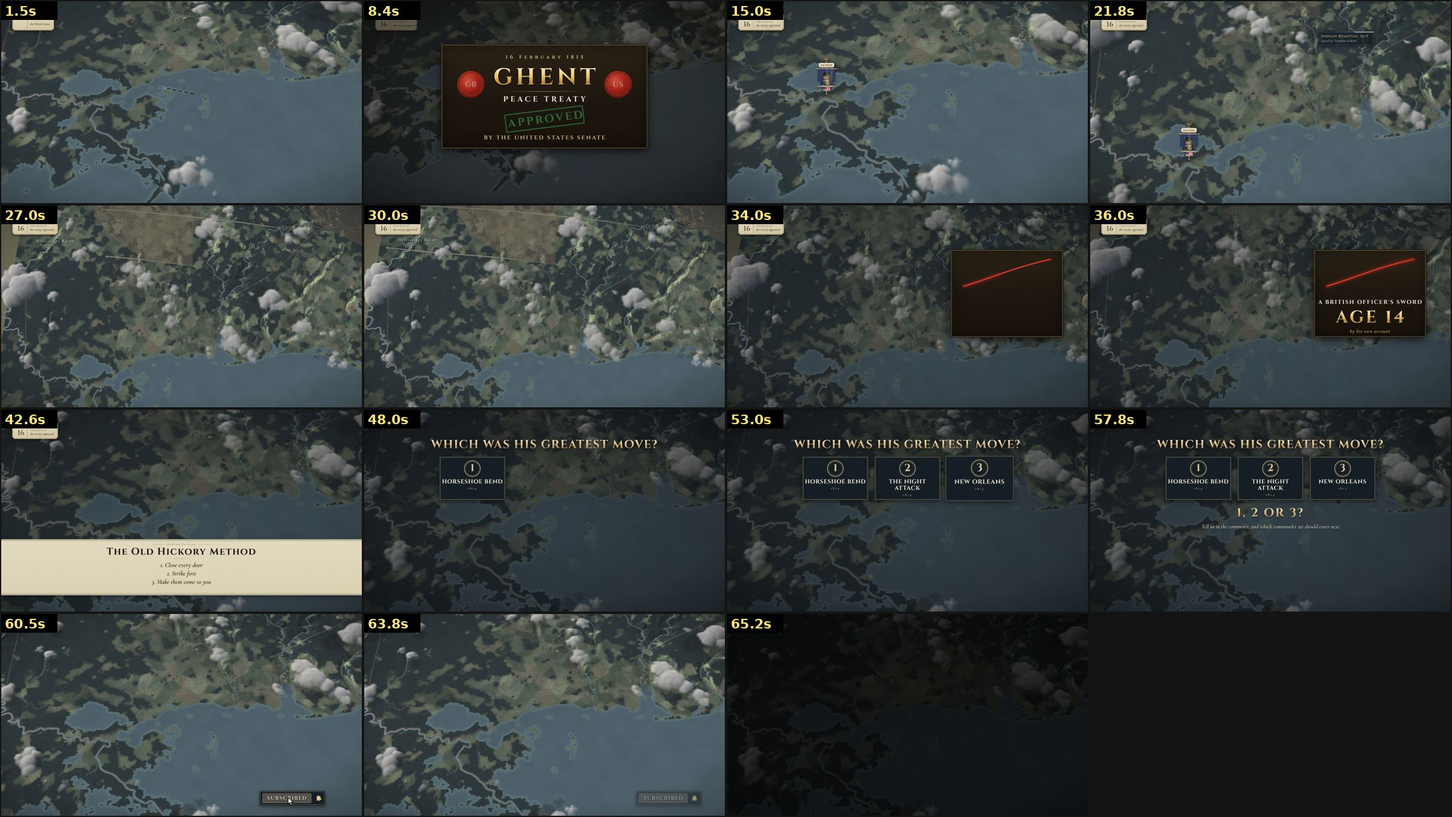
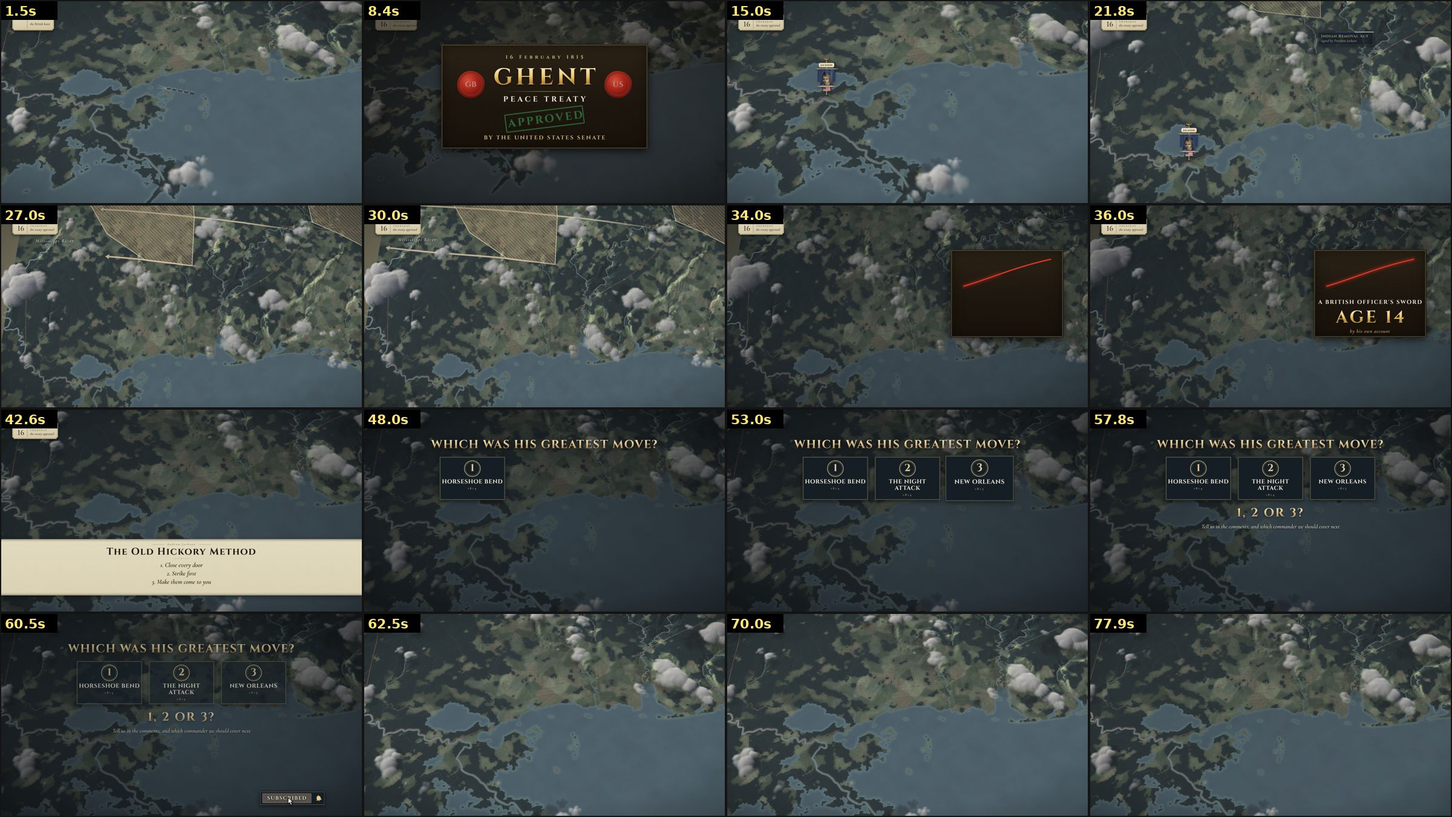
Jackson: S07 climax shots + fog, S08 end-screen tail
Claude-Session: https://claude.ai/code/session_011uJnjAkjbSabL4aypQkYaz

diff --git a/ajackson/sequences/S07/seq.js b/ajackson/sequences/S07/seq.js
@@ -4,7 +4,7 @@
 // the rocket, the British lines advancing in the fog, the fog lifts at ~500 yards -> the batteries, then rank fire along the parapet ->
 // the main column at the ditch with no ladders (NO LADDERS) -> Pakenham's banner rides forward and falls -> the 93rd crosses the field
 // obliquely and stands under grape -> the river column storms the advanced redoubt, is driven out -> HALF AN HOUR, the lines stream back
-// -> the west bank: Thornton's small force breaks Morgan's line, halts, is ordered back -> ledger 2,037 / 71 (both banks) / 6 killed
+// -> the west bank: Thornton's small force breaks Morgan's line, halts, is ordered back -> centred result card 2,037 / 71 (both banks) / 6 killed
 // behind the wall -> method card line 3. Facts: ajackson/research/FACT_NOTES_neworleans.md 37-54 (Latour, Butler's return, WP-BNO).
 (() => {
 const T = { D: 152.86, dawn: 0.57, eighth: 1.53, january: 1.77, wrong: 3.97, canal: 5.13, boats: 6.51, river: 7.11, collapsed: 8.05,
@@ -46,18 +46,18 @@ for (const k of ["tn1", "tn2", "ky1", "ky2", "cho"]) add({ side: "u", face: FL, 
 add({ side: "u", face: FS, keys: [[0, REDOUBT[0] - nS[0] * 0.25, REDOUBT[1] - nS[1] * 0.25]], caps: [[T.storm + 0.3, T.driven + 0.2]] });
 // British lines form in the dark (fade in), advance on the rocket; the main column (Gibbs: 4th, 21st, 44th) by the swamp end of the
 // straight stretch, three lines in depth; the 44th (the ladders) late behind them
-const MS = 4.25, FOR = 0.6;
+const MS = 3.9, FOR = 0.6;
 const MAIN = [0, 1, 2].map((i) => add({ side: "r", n: 2, face: FB, t0: FOR + i * 0.4,
   keys: [[0, ...onS(MS, 10.2 + i * 1.3)], [T.british, ...onS(MS, 10.2 + i * 1.3)], [T.five, ...onS(MS, 4.3 + i * 1.3)], [T.ditch, ...onS(MS, 1.05 + i * 1.25)],
          [T.hands + 0.4, ...onS(MS, 1.05 + i * 1.25)], [78.0, ...onS(MS, 4.8 + i * 1.3)], [T.broken, ...onS(MS, 4.8 + i * 1.3)], [118.0, ...onS(MS, 10.6 + i * 1.3)]] }));
-add({ side: "r", n: 2, face: FB, t0: FOR + 1.2, keys: [[0, ...onS(5.6, 13.4)], [T.rank, ...onS(5.6, 13.4)], [T.ditch + 1.0, ...onS(5.6, 8.4)], [T.broken, ...onS(5.6, 8.4)], [118.0, ...onS(5.6, 12.6)]] });
+add({ side: "r", n: 2, face: FB, t0: FOR + 1.2, keys: [[0, ...onS(2.0, 13.4)], [T.rank, ...onS(2.0, 13.4)], [T.ditch + 1.0, ...onS(2.0, 8.4)], [T.broken, ...onS(2.0, 8.4)], [118.0, ...onS(2.0, 12.6)]] });
 // the river column: Rennie's light companies by the road (they storm the redoubt), the 93rd (cross obliquely to Gibbs' right, then stand)
-const RS = 0.32, RD0 = 10.6, RD1 = 4.6, RIN = 1.25;
+const RS = 0.32, RD0 = 10.6, RD1 = 4.6, RIN = 1.45;
 add({ side: "r", n: 2, face: FB, t0: FOR + 0.6, t1: 107.4,
   keys: [[0, ...onS(RS, RD0)], [T.british, ...onS(RS, RD0)], [T.five, ...onS(RS, RD1)], [97.2, ...onS(RS, RD1)], [T.storm + 0.2, ...onS(RS, RIN)], [T.shot + 1.4, ...onS(RS, RIN)], [107.4, ...onS(RS, 4.2)]] });
 const H93a = onS(1.5, 11.0), H93b = onS(1.5, 5.6), H93c = onS(2.7, 2.7);
 add({ side: "r", n: 2, face: FB, t0: FOR + 0.8,
-  keys: [[0, ...H93a], [T.british, ...H93a], [T.five, ...H93b], [T.marched - 0.4, ...H93b], [T.halted, ...H93c], [T.broken - 0.4, ...H93c], [117.0, ...onS(2.7, 9.6)]] });
+  keys: [[0, ...H93a], [T.british, ...H93a], [T.five, ...H93b], [T.marched - 0.4, ...H93b], [T.halted, ...H93c], [T.broken - 0.4, ...H93c], [114.0, ...onS(2.7, 5.8)]] });
 // Lambert's reserve, ~650 yards back
 add({ side: "r", n: 2, face: FB, t0: FOR + 1.6, keys: [[0, ...onS(2.2, 14.6)]] });
 // the west bank: Morgan's two small lines behind his breastwork; Thornton's few hundred break through, halt, are ordered back
@@ -74,8 +74,8 @@ add({ side: "r", n: 2, face: FM + Math.PI, t0: 113.0,
 const CUT = [[VIL[0] - 0.5, 3232.6], [VIL[0] - 0.1, 3239.6]];   // the new cut from the Villeré canal to the river
 const XR = [[VIL[0] - 1.0, 3240.8], [VIL[0] - 2.4, 3243.4], [VIL[0] - 3.8, 3246.4]];
 const boats = [
-  ...[0.12, 0.32, 0.5, 0.7].map((k) => ({ region: CH, kind: "barge", n: 1, path: CUT, sAt: () => VX.len(CUT) * k, t0: -1, t1: 26.0, size: 0.13, lamp: false, wake: false, h: 0.05 })),
-  { region: CH, kind: "barge", n: 2, path: XR, s0: 0.4, speed: 0.55, spacing: 0.9, t0: T.across - 0.6, t1: 26.0, size: 0.13, lamp: false, wake: true },
+  ...[0.12, 0.32, 0.5, 0.7].map((k) => ({ region: CH, kind: "barge", n: 1, path: CUT, sAt: () => VX.len(CUT) * k, t0: -1, t1: 26.0, size: 0.16, lamp: false, wake: false, h: 0.05 })),
+  { region: CH, kind: "barge", n: 2, path: XR, s0: 0.4, speed: 0.55, spacing: 0.9, t0: T.across - 0.6, t1: 26.0, size: 0.18, lamp: false, wake: true },
 ];
 
 // ---------------- fx ----------------
@@ -107,7 +107,7 @@ const fx = {
 
 // ---------------- arrows ----------------
 const arrows = [
-  { side: "r", pts: [CUT[1], [VIL[0] - 2.2, 3243.0], [VIL[0] - 3.6, 3246.6]], t0: T.west, dur: 1.6, t1: 15.0, width: 0.16 },
+  { side: "r", pts: [[VIL[0] - 0.9, 3240.9], [VIL[0] - 2.3, 3243.3], [VIL[0] - 3.5, 3245.9]], t0: T.west - 0.2, dur: 2.2, t1: 15.0, width: 0.24 },   // the boats' route over the river
   { side: "r", pts: [onS(MS, 9.6), onS(MS, 6.8), onS(MS, 4.4)], t0: T.advanced, dur: 2.4, t1: 37.0, width: 0.24 },
   { side: "r", pts: [onS(RS, 10.0), onS(RS, 7.4), onS(RS, 5.0)], t0: T.advanced + 0.3, dur: 2.4, t1: 37.0, width: 0.2 },
   { side: "r", pts: [H93b, [(H93b[0] + H93c[0]) / 2 + 0.3, (H93b[1] + H93c[1]) / 2 - 0.1], H93c], t0: T.marched, dur: 2.0, t1: T.guns3 + 1.0, width: 0.2 },
@@ -130,19 +130,30 @@ const lab = (text, at, t0, d = 3.5, o = {}) => ({ text, at, t0, t1: t0 + d, regi
 const labels = [
   lab("collapsed canal", [VIL[0] + 1.4, 3236.0], T.collapsed - 0.05, 3.4),
   lab("west bank", [VIL[0] - 4.6, 3247.4], T.west - 0.05, 3.6, { river: true }),
-  lab("the ditch", onS(4.0, 0.5), T.ditch - 0.05, 3.0, { river: true, size: 14 }),
+  lab("the ditch", onS(3.4, 0.5), T.ditch - 0.05, 3.0, { river: true, size: 14 }),
   lab("93rd Highlanders", [H93c[0] + 0.8, H93c[1] + 0.9], T.ninety3 - 0.05, 4.2, { size: 16 }),
   lab("advanced redoubt", onS(RS - 0.2, 2.2), 100.0, 3.4),   // on "advanced battery" (99.95)
   lab("Morgan's line", wbo(0.9, -1.4), T.weak - 0.05, 3.2),
 ];
 
 // ---------------- the morning: fog + the rocket ----------------
-function fogBuild(c) {
-  const B = []; for (let i = 0; i < 90; i++) { const x = 1249 + VX.hsh(i, 21) * 22, y = 3219 + VX.hsh(i, 22) * 21; B.push([x, y, 2.6 + VX.hsh(i, 23) * 2.8, VX.hsh(i, 24)]); }
-  const H = (x, y) => c.world.heightAt(x, y, CH);
-  c.FX[CH].custom((t, push) => { const k = 1 - c.sstep(T.crossed, T.lifted + 1.2, t); if (k <= 0.01) return;
-    for (const [x, y, r, ph] of B) { const dx = Math.sin(t * 0.07 + ph * 6) * 0.6, rise = (1 - k) * 1.4; push(x + dx, H(x, y) + 0.25 + ph * 0.3 + rise, y, r * (1 + 0.3 * (1 - k)), 0.17 * k, 0.86, 0.87, 0.85, 6, 2); } });
-}
+// 8 Jan fog (owner fix): an even low veil + long horizontal bands lying along the river (world-anchored, blurred), densest by the river
+// (NPS: the fog lasted longer near the river), lifting smoothly as the British close (crossed -> lifted + 1.2)
+const RIVP = (() => { const R = VX.river(CH, "Mississippi River").pts.map((p) => [p[0], p[1]]); const out = [];
+  for (let i = 0; i < R.length; i += 3) { const a = R[Math.max(0, i - 1)], b = R[Math.min(R.length - 1, i + 1)], l = Math.hypot(b[0] - a[0], b[1] - a[1]) || 1; let n = [-(b[1] - a[1]) / l, (b[0] - a[0]) / l];
+    if (n[0] * (RE[0] - R[i][0]) + n[1] * (RE[1] - R[i][1]) < 0) n = [-n[0], -n[1]]; out.push({ p: R[i], n }); } return out; })();
+const fogK = (t) => 1 - VX.sstep(T.crossed, T.lifted + 1.2, t);
+const fog = { build() { const c = document.createElement("canvas"); c.width = 1280; c.height = 720; c.style.cssText = "position:absolute;inset:0;pointer-events:none";
+    const tr = document.getElementById("troops"); tr.parentNode.insertBefore(c, tr); this.g = c.getContext("2d"); },
+  draw(t, ctx) { const g = this.g; if (!g) return; g.clearRect(0, 0, 1280, 720); const k = fogK(t); if (k <= 0.003) return; const W = ctx.world;
+    g.fillStyle = `rgba(214,218,216,${(0.22 * k).toFixed(3)})`; g.fillRect(0, 0, 1280, 720);
+    g.save(); g.filter = "blur(22px)"; g.lineCap = "round"; g.lineJoin = "round";
+    for (let b = 0; b < 12; b++) { const d = -3 + b * 2.2 + Math.sin(t * 0.05 + b) * 0.5, a = (0.2 - b * 0.014) * k, lift = (1 - k) * 0.8;
+      if (a <= 0.005) continue; g.beginPath(); let started = false, ppu = 10;
+      for (const { p, n } of RIVP) { const q = W.projectMap(p[0] + n[0] * d, p[1] + n[1] * d, 0.4 + lift); if (!q.visible) { started = false; continue; } ppu = q.ppu || ppu;
+        if (!started) { g.moveTo(q.x, q.y); started = true; } else g.lineTo(q.x, q.y); }
+      g.strokeStyle = `rgba(222,225,222,${a.toFixed(3)})`; g.lineWidth = Math.max(40, Math.min(260, ppu * 4.4)); g.stroke(); }
+    g.restore(); } };
 const ROCK0 = onL(4.2, 2.6);   // fired from the wood's edge (Latour)
 function rocketBuild(c) {
   const H = (x, y) => c.world.heightAt(x, y, CH), t0 = T.rocket - 0.25, t1 = t0 + 1.9;
@@ -154,6 +165,29 @@ function rocketBuild(c) {
     else { const p = pos(1), a = 1 - (t - t1) / 1.4; for (let k = 0; k < 18; k++) { const ang = k / 18 * Math.PI * 2, r = (t - t1) * 2.2;
       push(p[0] + Math.cos(ang) * r, p[1] - (t - t1) * 1.2 + Math.sin(ang) * r * 0.6, p[2], 0.5, 0.8 * a, 1.4, 0.9, 0.5, 7, 1); } } });
 }
+// the result: one big centred card (dark plate, gold hairline, Cinzel), each figure on its words
+const RCSS = `.aj-res{position:absolute;left:330px;top:170px;width:1260px;height:640px;color:#EEE7D6;text-align:center;font-family:"GM Cormorant",Georgia,serif;
+  background:linear-gradient(180deg,#232b33 0%,#182027 60%,#141a20 100%);box-shadow:0 14px 40px rgba(0,0,0,.7),inset 0 0 0 4px #151E25,inset 0 0 0 5.5px rgba(201,178,122,.85)}
+.aj-res .hd{position:absolute;left:0;right:0;top:44px;font-family:"GM Cinzel",serif;font-weight:700;font-size:28px;letter-spacing:.42em;color:#C9B27A;padding-left:.42em}
+.aj-res .col{position:absolute;top:120px;width:560px}.aj-res .c1{left:40px}.aj-res .c2{right:40px}
+.aj-res .sd{font-family:"GM Cinzel",serif;font-weight:700;font-size:30px;letter-spacing:.3em;padding-left:.3em}
+.aj-res .c1 .sd{color:#D9867A}.aj-res .c2 .sd{color:#9FB8DC}
+.aj-res .nb{font-family:"GM Cinzel",serif;font-weight:700;font-size:150px;line-height:1.05;letter-spacing:.02em;
+  background:linear-gradient(180deg,#fff1c4,#e8c46c 45%,#b98a35 70%,#f0d28a);-webkit-background-clip:text;background-clip:text;color:transparent;filter:drop-shadow(0 4px 4px rgba(0,0,0,.7))}
+.aj-res .nt{font-style:italic;font-weight:600;font-size:31px;color:#E8E0CC;margin-top:4px}
+.aj-res .gn{font-family:"GM Cinzel",serif;font-weight:700;font-size:24px;letter-spacing:.22em;color:#D9867A;margin-top:10px}
+.aj-res .vr{position:absolute;left:629px;top:130px;width:1.5px;height:300px;background:linear-gradient(180deg,transparent,#C9B27A,transparent)}
+.aj-res .ft{position:absolute;left:0;right:0;top:486px;font-family:"GM Cinzel",serif;font-weight:700;font-size:38px;letter-spacing:.2em;padding-left:.2em;color:#EEE7D6}
+.aj-res .src{position:absolute;left:0;right:0;top:560px;font-style:italic;font-weight:500;font-size:22px;color:#B7A57C}`;
+function buildResult(c) { const st = document.createElement("style"); st.textContent = RCSS; document.head.appendChild(st);
+  const host = document.querySelector("#ov .gmo") || document.getElementById("ov"), el = document.createElement("div"); el.className = "aj-res";
+  el.innerHTML = `<div class="hd">8 January 1815</div><div class="col c1"><div class="sd">British</div><div class="nb">2,037</div><div class="nt">killed, wounded or captured</div><div class="gn">three generals among them</div></div>
+    <div class="vr"></div><div class="col c2"><div class="sd">American</div><div class="nb">71</div><div class="nt">killed, wounded or missing · both banks</div></div>
+    <div class="ft">Behind the wall: 6 killed</div><div class="src">Lambert's return; Butler's return, 16 January 1815</div>`;
+  host.appendChild(el); const tl = c.tl, gs = window.gsap, on = (sel, t) => { const e = el.querySelector(sel); gs.set(e, { autoAlpha: 0 }); tl.fromTo(e, { autoAlpha: 0, y: 12 }, { autoAlpha: 1, y: 0, duration: 0.4, ease: "power2.out", immediateRender: false }, t); };
+  gs.set(el, { autoAlpha: 0 }); tl.fromTo(el, { autoAlpha: 0, scale: 0.97 }, { autoAlpha: 1, scale: 1, duration: 0.4, ease: "power2.out", immediateRender: false }, T.lost - 0.3); tl.to(el, { autoAlpha: 0, duration: 0.45 }, 143.3);
+  on(".c1 .sd", T.lost - 0.1); on(".c1 .nb", T.thousand); on(".c1 .nt", T.captured - 0.9); on(".c1 .gn", T.generals2); on(".vr", T.army - 0.4); on(".c2 .sd", T.army - 0.4);
+  on(".c2 .nb", T.seventy); on(".c2 .nt", T.missing); on(".ft", T.six - 0.05); on(".src", T.killed6 + 0.2); }
 // pinned stamps (S06's stamp look)
 const PINS = [];
 function pin(c, html, t0, t1, world) {
@@ -178,23 +212,25 @@ window.SEQ = {
     K(CUT1, [1260.6, 3230.0], 25, 49, 8, "lin", 0.5),
     { ...K(CUT1, [VIL[0] - 0.4, 3235.6], 15, 50, 12, "cut", 0.5), dissolve: 0.9 },   // the collapsed canal, the boats stuck
     K(9.6, [VIL[0] - 1.0, 3238.6], 16, 50, 6, "io", 0.5),
-    K(CUT2, [VIL[0] - 2.4, 3242.0], 18, 50, 2, "lin", 0.48),                          // the west-bank force crossing late
+    K(CUT2, [VIL[0] - 2.2, 3243.0], 21, 52, 2, "lin", 0.48),                          // the west-bank force crossing late
     { ...K(CUT2, onS(1.6, -1.2), 7.5, 72, -33, "cut", 0.42), dissolve: 0.9 },           // eye level along the silent wall
     K(CUT3, onS(3.0, -1.2), 7.5, 71, -30, "lin", 0.3),
     { ...K(CUT3, onS(2.8, 5.0), 30, 49, -122, "cut", 0.25), dissolve: 0.9 },          // from behind the line across the field
     K(33.6, onS(3.0, 4.6), 29, 50, -120, "io", 0.08),
-    K(39.6, onS(3.0, 4.0), 27, 50, -118, "io", 0),
-    K(47.0, onS(3.4, 3.0), 23, 52, -116, "io", 0),
-    K(55.4, onS(3.7, 2.4), 20, 53, -112, "io", 0),
-    K(61.0, onS(4.1, 1.5), 15, 54, -108, "io", 0),                                    // the ditch, no ladders
-    K(69.4, onS(4.1, 1.6), 14, 55, -106, "lin", 0),
-    K(73.0, onS(3.8, 4.0), 22, 51, -114, "io", 0),                                    // Pakenham
-    K(82.6, onS(3.6, 4.2), 23, 51, -116, "lin", 0),
-    K(86.6, onS(2.4, 3.2), 20, 52, -120, "io", 0),                                    // the 93rd
-    K(96.2, onS(2.3, 3.0), 19, 53, -122, "lin", 0),
-    K(99.4, onS(0.4, 1.6), 13, 54, -126, "io", 0),                                    // the redoubt by the river
-    K(107.0, onS(0.4, 1.8), 13.5, 54, -124, "lin", 0),
-    K(110.6, onS(2.8, 5.2), 30, 49, -118, "io", 0),                                   // the field: half an hour
+    K(39.9, onS(3.0, 4.0), 27, 50, -118, "lin", 0),
+    { ...K(39.9, onS(2.7, 0.6), 12, 64, -60, "cut", 0), dissolve: 0.9 },           // low along the wall: the batteries, then rank fire
+    K(55.9, onS(3.3, 0.9), 11.5, 63, -56, "lin", 0),
+    { ...K(55.9, onS(3.9, 1.6), 10.5, 60, -24, "cut", 0), dissolve: 0.9 },           // close oblique down the front: the main column at the ditch
+    K(69.9, onS(3.9, 1.8), 10, 61, -20, "lin", 0),
+    { ...K(69.9, onS(3.5, 7.0), 13, 60, 78, "cut", 0), dissolve: 0.9 },            // from behind the British: Pakenham rides forward
+    K(75.2, onS(3.6, 5.4), 12.5, 61, 74, "io", 0),
+    K(83.3, onS(3.7, 4.4), 14, 60, 70, "lin", 0),
+    { ...K(83.3, onS(2.2, 3.8), 12, 62, -20, "cut", 0), dissolve: 0.9 },           // from the side: the 93rd crosses and stands under grape
+    K(88.0, [H93c[0] - 0.2, H93c[1] - 0.2], 11, 63, -18, "io", 0),
+    K(96.7, [H93c[0] - 0.3, H93c[1] - 0.1], 10.5, 63, -16, "lin", 0),
+    { ...K(96.7, onS(0.5, 1.8), 11, 60, 30, "cut", 0), dissolve: 0.9 },            // by the river: the redoubt
+    K(107.5, onS(0.5, 2.0), 10.5, 61, 26, "lin", 0),
+    { ...K(107.5, onS(2.8, 5.2), 30, 49, -118, "cut", 0), dissolve: 0.9 },         // the field from above: half an hour
     K(CUT4, onS(2.8, 5.4), 31, 49, -117, "lin", 0),
     { ...K(CUT4, wbo(0.5, 1.0), 17, 51, 180, "cut", 0), dissolve: 0.9 },              // the west bank, from over the river
     K(CUT5, wbo(0.45, 0.6), 18, 51, 176, "lin", 0),
@@ -208,23 +244,17 @@ window.SEQ = {
     ["plaque.date", T.light, { month: "January 1815", day: "8", weekday: "Sunday", note: "first light" }],
     ["plaque.date", T.lifted, { month: "January 1815", day: "8", weekday: "Sunday", note: "the fog lifts" }],
     ["distance", T.five - 0.25, 40.0, { from: onS(MS, -0.2), to: onS(MS, 3.6), value: 500, unit: "YARDS", sub: "from the guns", dash: false }],
-    (O, c) => stamp(c, "NO LADDERS", T.behind - 0.05, T.hands + 0.6, onS(4.3, 2.8)),
+    (O, c) => stamp(c, "NO LADDERS", T.behind - 0.05, T.hands + 0.6, onS(3.7, 3.6)),
     ["label", T.mortally - 0.05, T.third - 0.2, { name: "The main column's general", sub: "mortally wounded", world: onS(4.4, 5.8), side: "uk", marker: false }],
     ["label", T.badly - 0.05, 83.0, { name: "A third general", sub: "badly wounded", world: onS(2.4, 6.6), side: "uk", marker: false }],
     (O, c) => stamp(c, "HALF AN HOUR", T.hour - 0.05, 114.2, onS(3.0, 4.4)),
-    ["film.dim", T.lost - 0.6, 143.4, 0.7],
-    ["ledger.show", T.lost - 0.4, { title: "8 January 1815", sub: "Lambert's and Butler's returns" }],
-    ["ledger.add", T.captured, { who: "British: 2,037", note: "killed, wounded or captured", stamp: false }],
-    ["ledger.note", T.generals2 + 0.3, 1, "three generals among them"],
-    ["ledger.add", T.missing + 0.1, { who: "American: 71 casualties", note: "killed, wounded or missing · both banks", stamp: false }],
-    ["ledger.add", T.killed6, { who: "Behind the wall: 6 killed", stamp: false }],
-    ["ledger.hide", 143.4],
+    ["film.dim", T.lost - 0.6, 143.4, 0.8],
     ["letter", 143.6, T.D + 1, { header: "Move 3 · New Orleans", title: "The Old Hickory Method", sub: "", marks: false, quote: "1. Close every door\n2. Strike first\n3. Make them come to you", qSize: 34, height: 300,
       cps: 30, qAt: T.make - 0.05 - 35 / 30, lag: 0.05, stagger: 0.06, partDur: 0.35 }],
     () => { const q = [...document.querySelectorAll("#ov .letter .q")].pop(); if (q) q.style.whiteSpace = "pre-line"; },
   ],
-  build: (c) => { fogBuild(c); rocketBuild(c); },
-  draw: (t, c) => { const sc = 1920 / c.world.renderer.domElement.width * (c.world.renderer.getPixelRatio ? c.world.renderer.getPixelRatio() : 1);
+  build: (c) => { fog.build(c); rocketBuild(c); buildResult(c); },
+  draw: (t, c) => { fog.draw(t, c); const sc = 1920 / c.world.renderer.domElement.width * (c.world.renderer.getPixelRatio ? c.world.renderer.getPixelRatio() : 1);
     for (const p of PINS) { const s = c.world.projectMap(p.world[0], p.world[1], 0.3); p.el.style.transform = `translate(${(s.x * sc).toFixed(1)}px,${(s.y * sc).toFixed(1)}px)`; } },
 };
 })();

diff --git a/ajackson/sequences/S08/seq.js b/ajackson/sequences/S08/seq.js
@@ -1,11 +1,11 @@
-// S08 ENDING (D 65.61 s, ajackson/tools/scene_times.py S08). One region: gulf (z8). Fades out at the very end.
+// S08 ENDING (D 79.11 s: ~17 s of clean living map after the last word for YouTube's end screen, ajackson/tools/scene_times.py S08). One region: gulf (z8). Fades out at the very end.
 // The British sail away (Jan 1815) -> 16 Feb 1815: the Senate approves the Treaty of Ghent (S01's Ghent card returns: APPROVED) -> Jackson's
 // banner over New Orleans, fame, the White House -> the Indian Removal Act: the remaining Native lands in the South shaded (muted) and
 // thin muted arrows west across the Mississippi, the Cherokee named (respectful, no drama) -> the scar card callback (S01's design) + the
 // method card with all three lines -> engage.final (1 / 2 / 3, "1, 2 OR 3?", subscribe) -> the living map alone, fade.
 // Facts: FACT_NOTES_neworleans.md 56 (withdrawal 18-27 Jan), treaty ratified 16 Feb 1815 (Senate); FACT_NOTES_horseshoe.md (Cherokee allies).
 (() => {
-const T = { D: 65.61, ten: 0.43, later: 0.81, slipped: 2.11, ships: 3.23, d16: 4.94, february: 5.29, senate: 7.09, approved: 7.41, treaty: 8.15,
+const T = { D: 79.11, ten: 0.43, later: 0.81, slipped: 2.11, ships: 3.23, d16: 4.94, february: 5.29, senate: 7.09, approved: 7.41, treaty: 8.15,
   ghent: 8.75, battle: 9.73, change: 10.57, word: 11.21, made: 12.63, andrew: 12.85, jackson: 13.31, famous: 14.21, america: 15.21,
   white: 18.11, house: 18.33, signed: 20.21, indian: 20.73, removal: 21.17, act: 21.53, tens: 23.45, thousands: 23.83, native: 24.49,
   forced: 25.65, lands: 26.47, south: 27.25, cherokee: 28.87, fought: 30.09, horseshoe: 30.99, bend: 31.57,
@@ -81,10 +81,10 @@ const shade = { build() { const c = document.createElement("canvas"); c.width = 
     const tr = document.getElementById("troops"); tr.parentNode.insertBefore(c, tr); this.g = c.getContext("2d"); },
   draw(t, ctx) { const g = this.g; if (!g) return; g.clearRect(0, 0, 1280, 720); const W = ctx.world, k = VX.sstep(T.removal - 0.2, T.act + 0.8, t) * (1 - VX.sstep(32.0, 33.0, t)); if (k <= 0.001) return;
     for (const poly of LANDS) { const P = poly.map((q) => { const p = W.projectMap(q[0], q[1], 0); return [p.x, p.y]; });
-      g.save(); g.beginPath(); P.forEach(([x, y], i) => i ? g.lineTo(x, y) : g.moveTo(x, y)); g.closePath(); g.fillStyle = `rgba(120,104,86,${(0.34 * k).toFixed(3)})`; g.fill(); g.clip();
-      g.strokeStyle = `rgba(150,132,110,${(0.5 * k).toFixed(3)})`; g.lineWidth = 1.2; g.beginPath(); for (let x = -800; x < 1400; x += 12) { g.moveTo(x, 0); g.lineTo(x + 720, 720); } g.stroke(); g.restore();
-      g.beginPath(); P.forEach(([x, y], i) => i ? g.lineTo(x, y) : g.moveTo(x, y)); g.closePath(); g.strokeStyle = `rgba(90,76,62,${(0.7 * k).toFixed(3)})`; g.lineWidth = 1.6; g.stroke(); } } };
-const MUTE = "#8a7a66";
+      g.save(); g.beginPath(); P.forEach(([x, y], i) => i ? g.lineTo(x, y) : g.moveTo(x, y)); g.closePath(); g.fillStyle = `rgba(150,128,96,${(0.4 * k).toFixed(3)})`; g.fill(); g.clip();
+      g.strokeStyle = `rgba(214,196,160,${(0.6 * k).toFixed(3)})`; g.lineWidth = 1.2; g.beginPath(); for (let x = -800; x < 1400; x += 12) { g.moveTo(x, 0); g.lineTo(x + 720, 720); } g.stroke(); g.restore();
+      g.beginPath(); P.forEach(([x, y], i) => i ? g.lineTo(x, y) : g.moveTo(x, y)); g.closePath(); g.strokeStyle = `rgba(226,210,176,${(0.85 * k).toFixed(3)})`; g.lineWidth = 2.4; g.stroke(); } } };
+const MUTE = "#cbb68f";
 window.SEQ = {
   name: "S08", D: T.D, T, seed: 1815, date: "1815-02-16",
   regions: [GF],
@@ -97,7 +97,8 @@ window.SEQ = {
     { t: 24.6, region: GF, at: [560, 560], dist: 1180, tilt: 20, yaw: 0, fov: 30, ease: "io" },       // the South: the lands, west across the Mississippi
     { t: 32.0, region: GF, at: [560, 570], dist: 1160, tilt: 21, yaw: 0, fov: 30, ease: "lin" },
     { t: 43.4, region: GF, at: [430, 760], dist: 700, tilt: 38, yaw: 0, fov: 30, ease: "io" },
-    { t: T.D, region: GF, at: [470, 740], dist: 760, tilt: 37, yaw: 2, fov: 30, ease: "lin" },          // the living map for the end screen
+    { t: 61.5, region: GF, at: [462, 744], dist: 740, tilt: 37, yaw: 1, fov: 30, ease: "lin" },
+    { t: T.D, region: GF, at: [500, 730], dist: 790, tilt: 36, yaw: 4, fov: 30, ease: "lin" },          // the living map alone for the end screen (slow drift)
   ],
   clouds: { [GF]: { scatter: { seed: 7 }, keepClear: [[400, 790, 160, 1, 1]] } },
   units: [],
@@ -106,12 +107,12 @@ window.SEQ = {
     { side: "r", region: GF, width: 0.5, maxWidth: 0.5, pts: AWAY.slice(1, 4), t0: T.slipped, dur: 1.6, t1: 6.4 },
     // removal: thin muted arrows west across the Mississippi (Creek, Choctaw, and from the Cherokee country north-east, off the map)
     ...[[[1010, 300], [700, 250], [380, 215], [60, 190]], [[640, 430], [420, 400], [200, 380], [40, 360]], [[1180, 60], [820, 80], [420, 100], [50, 110]]]
-      .map((pts, i) => ({ color: MUTE, region: GF, width: 0.45, maxWidth: 0.45, pts, t0: T.forced + i * 0.5, dur: 2.6, t1: 32.2 })),
+      .map((pts, i) => ({ color: MUTE, region: GF, width: 0.75, maxWidth: 0.75, pts, t0: T.forced + i * 0.5, dur: 2.6, t1: 32.2 })),
   ],
   generals: { jackson: { img: "seq/jackson.png", flag: "seq/us15_flag.png", side: "us", name: "Jackson", full: "Andrew Jackson", role: "Major General" } },
   banners: [{ general: "jackson", region: GF, keys: [[0, NOG[0] + 8, NOG[1] - 6]], t0: T.jackson - 0.05, t1: 23.6 }],
   labels: [
-    { text: "Cherokee", region: GF, at: [900, 92], size: 18, t0: T.cherokee, t1: 32.0 },
+    { text: "Cherokee", region: GF, at: [900, 120], size: 22, t0: T.cherokee, t1: 32.0 },
     { text: "Mississippi River", region: GF, at: [140, 330], size: 17, river: true, t0: T.forced + 0.6, t1: 31.2 },
   ],
   fx: {},
@@ -126,9 +127,9 @@ window.SEQ = {
     ["plaque.hide", 43.2],
     ["engage.final", { moves: [["HORSESHOE BEND", "1814"], ["THE NIGHT ATTACK", "1814"], ["NEW ORLEANS", "1815"]], q: "WHICH WAS HIS GREATEST MOVE?", sub: "",
       tShow: T.which - 0.1, tNums: [T.one, T.two, T.three2], tAsk: T.no + 0.2, extra: "Tell us in the comments, and which commander we should cover next", tExtra: T.tell,
-      until: 59.0, tSub: T.subscribe - 1.25, subUntil: 63.4 }],
+      until: 60.4, tSub: T.subscribe - 1.25, subUntil: 60.9 }],
   ],
-  start: {}, end: { fadeAt: 64.4, dur: 1.2 },
+  start: {}, end: { fadeAt: T.D - 1.5, dur: 1.5 },
   build: (ctx) => { buildCards(ctx); shade.build(ctx); },
   draw: (t, ctx) => { shade.draw(t, ctx); },
 };

diff --git a/ajackson/sequences/S06/seq.js b/ajackson/sequences/S06/seq.js
@@ -102,10 +102,7 @@ const volleys = [
   // 28 Dec: the riflemen on the line fire at the swamp column
   { region: CH, pts: [onL(0.4, -0.55), onL(1.6, -0.55), onL(2.6, -0.55)], t0: T.american + 0.4, t1: T.drove + 0.6, opts: { dir: nL, size: 0.8, alpha: 0.09, life: 10, muzzle: 5, rate: 3.0, volley: 1.6, roll: 0.6, height: 2.0 } },
 ];
-// 1 January fog: low, slow, long-lived grey banks over the plain (no flashes, no sound), lifting (thinning) when the fog lifts
-const FOG = [0, 1, 2, 3, 4].map((i) => ({ region: CH, pts: [onS(-1.0, 1.2 + i * 1.6), onS(6.2, 1.2 + i * 1.6)], t0: T.newyear - 0.5, t1: T.fog - 0.2, cue: false,
-  opts: { flash: false, dir: [0.2, 0.1], rate: 5.0, size: 3.2, alpha: 0.16, life: 9, muzzle: 0.5, windK: 0.25, height: 0.6, fadeAfter: 2.2, fadeTo: 0, look: "gm" } }));
-const fx = { fires, smokeLines: FOG, volleys, guns };
+const fx = { fires, volleys, guns };
 
 // ---------------- arrows ----------------
 const arrows = [
@@ -203,12 +200,20 @@ window.SEQ = {
     const rise = [[0.3, 12.5, 0.3], [70.0, 76.0, 0], [T.night - 0.6, T.night + 1.6, 0], [T.across - 1.0, T.across + 1.0, 0], [T.across - 1.0, T.across + 1.0, 0]];
     c.FX[CH].custom((t) => { W.forEach((m, i) => { const [a, b, k0] = rise[i] || [0, 0, 1]; const k = k0 + (1 - k0) * c.sstep(a, b, t); m.visible = k > 0.01; m.position.y = -(1 - k) * sink[i]; }); });
     fogBuild(c); },
-  draw: (t, c) => { const sc = 1920 / c.world.renderer.domElement.width * (c.world.renderer.getPixelRatio ? c.world.renderer.getPixelRatio() : 1);
+  draw: (t, c) => { fogDraw(t, c); const sc = 1920 / c.world.renderer.domElement.width * (c.world.renderer.getPixelRatio ? c.world.renderer.getPixelRatio() : 1);
     for (const p of PINS) { const s = c.world.projectMap(p.world[0], p.world[1], 0.3); p.el.style.transform = `translate(${(s.x * sc).toFixed(1)}px,${(s.y * sc).toFixed(1)}px)`; } },
 };
 
-// ---------------- 1 January fog: no sprite fog (see fx.smokeLines FOG banks) ----------------
-function fogBuild(c) {}
+// ---------------- 1 January fog: a pale veil over the map (thicker toward the horizon, drifting soft banks), lifting on "the fog lifted" ----------------
+let FOGC = null;
+function fogBuild(c) { const cv = document.createElement("canvas"); cv.width = 640; cv.height = 360; cv.style.cssText = "position:absolute;inset:0;width:100%;height:100%;pointer-events:none";
+  const tr = document.getElementById("troops"); tr.parentNode.insertBefore(cv, tr); FOGC = cv.getContext("2d"); }
+function fogDraw(t, c) { if (!FOGC) return; const g = FOGC; g.clearRect(0, 0, 640, 360);
+  const k = c.sstep(T.newyear - 0.4, T.newyear + 1.0, t) * (1 - c.sstep(T.fog, T.fire2 + 0.6, t)); if (k <= 0.002) return;
+  const gr = g.createLinearGradient(0, 0, 0, 360); gr.addColorStop(0, `rgba(214,216,210,${(0.78 * k).toFixed(3)})`); gr.addColorStop(0.55, `rgba(206,208,203,${(0.5 * k).toFixed(3)})`);
+  gr.addColorStop(1, `rgba(200,203,198,${(0.3 * k).toFixed(3)})`); g.fillStyle = gr; g.fillRect(0, 0, 640, 360);
+  for (let i = 0; i < 9; i++) { const x = ((VX.hsh(i, 21) * 900 + t * (6 + 5 * VX.hsh(i, 22))) % 900) - 130, y = 60 + VX.hsh(i, 23) * 260, r = 90 + VX.hsh(i, 24) * 90;
+    const rg = g.createRadialGradient(x, y, 0, x, y, r); rg.addColorStop(0, `rgba(222,224,219,${(0.22 * k).toFixed(3)})`); rg.addColorStop(1, "rgba(222,224,219,0)"); g.fillStyle = rg; g.fillRect(x - r, y - r, 2 * r, 2 * r); } }
 
 // ---------------- pinned overlay bits: icons (bundles of cane, a ladder) and a red stamp ----------------
 const PINS = [];

diff --git a/ajackson/sequences/S05/NOTES.md b/ajackson/sequences/S05/NOTES.md
@@ -1,0 +1,39 @@
+# S05 MOVE 2: the night attack, 23 December 1814 (D 148.07 s)
+
+Build: `python3 vicksburg/tools/make_scene.py ajackson/sequences/S05`. Regions: neworleans (wide) + chalmette (close); both in base z10 units,
+so the same coordinates work in both. Sheet: `sheet.jpg`. Troop motion: `check_troops_motion.mjs ... 40 148.07 chalmette` = screen
+long-side angle <= 7 deg, 0 overlaps, 0 pops (world "front-vs-velocity" 26-43 deg is the engine's on-screen correction under oblique cameras).
+
+## Shot list (scene time, what appears on which word)
+| t | shot |
+| --- | --- |
+| 0-6.2 | neworleans wide: British army marker at Villere, plate 23 DECEMBER 1814; red arrow up Villere's canal on "bring up the rest" (2.6); ruler 9 MILES to the city on "march" (4.15); "New Orleans" on "city" (4.7) |
+| 6.25-14.6 | dissolve -> chalmette day, low over Keane's camp looking upriver; label "About 1,700 men" on "seventeen" (7.35); campfires lit on "fires" (12.07), light starts to fall |
+| 14.65-25.4 | dissolve -> neworleans: Jackson banner at the city on "Jackson" (15.67), plate notes "news reaches the city" / "early afternoon"; quote card on "Gentlemen" (21.0): "Gentlemen, the British are below. We must fight them tonight." attr "Andrew Jackson · as later told" (FACT_NOTES 26: traditional) |
+| 25.6-49.5 | WHAT WOULD YOU DO? (`O.engage.decide`): title on "Now stop" (25.65), A DIG IN AND WAIT FOR THEM on "dig" (38.1), B ATTACK TONIGHT on "attack" (41.0), TELL US IN THE COMMENTS on "Tell" (43.3) + ticks from "comments"; dusk falls; blue at the city on "militia", British barges up the canal on "enemy"; B lights up on "He did not wait" (48.4) inside the white-out |
+| 45.5-52.65 | cloud dive 3 neworleans -> chalmette NIGHT (swap 49.3, land 52.65) |
+| 50-61 | blue blocks down the river road (label "river road" on "road"); the Carolina (ship) drifts down and stops at her anchorage at 60.2; label "Carolina · US Navy schooner" follows her from "Carolina" (56.6) |
+| 62.4-71.9 | clock plate 19:30 on "half past seven" (63.1); 8 broadside shots from 65.13 (flash + plume + impact in the camp, each a cue), campfires out on "out" (71.2) |
+| 72.5-83.2 | Jackson banner + arrow along the road on "Then Jackson attacked"; the three blue lanes advance firing (volleys with flashes); Coffee banner on "Coffee's" (78.8), his blocks along the swamp edge + arrow on "swung" (79.7), volleys into the British flank on "struck" (81.5) |
+| 83.7-96.7 | melee, camera low (dist 13-14): both sides push through each other's lanes (forward moves only) -> blue and red blocks mixed in small groups; 12 short ragged volleys all over the field |
+| 97-107.75 | grey dawn; plate 24 DECEMBER "before dawn" on "dawn" (102.2); ledger "The night battle · 23 December 1814 · losses": British 277 / Americans 213 (killed, wounded or missing) on "lost" (99.5 / 100.2); the Americans leave by the river road (escapes) + arrow back to the canal on "pulled"; Jackson's line starts to rise; "Rodriguez Canal" on its word (106.5) |
+| 107.8-129.5 | dissolve -> neworleans: label "Stung" on "stung"; red HALTED stamp (pinned west of Villere) on "wait" (116.2); Jackson banner at the Rodriguez line; label "Time" on "time" (121.8); method card = S03's letter card ("Move 2 · The night attack", THE OLD HICKORY METHOD, "1. Close every door" typed fast, "2. Strike first" typed on "hit him first" 126.5) over the map |
+| 129.55-148.07 | dissolve -> chalmette day: plate 25 DECEMBER "Christmas Day" on "Christmas"; reinforcements walk out of the swamp onto Villere's (6 units staggered); Pakenham banner on "Pakenham" (133.9); medallion card "Sir Edward Pakenham · Wellington's brother-in-law" on "Wellington's" (134.7); plate "1815 · Jan · early January" on "January" (140.5); number 8,000 on "eight" (143.45); the camera keeps moving (last 0.6 s dissolves into S06) |
+
+## Facts (FACT_NOTES_neworleans.md)
+Villere ~9 miles from the city (25); advance guard ~1,700 (9, 30); Jackson learned ~1 p.m. (24); quote traditional (26); Carolina anchored
+off Villere's batture, opened fire ~7:30 p.m. (27); Jackson on the river road, Coffee by the swamp side into the British right (28);
+213 / 277 (31); withdrew 4 a.m. 24 Dec two miles to the Rodriguez Canal (32); Pakenham arrived 25 Dec, Wellington's brother-in-law (8);
+~8,000 by early January (9). The rampart only exists from the 24th: the engine works are hidden until "pulled back" and rise slowly.
+
+## Images
+`jackson.png`, `coffee.png`, `pakenham.png` = `ajackson/assets/generals/` (S01 author's cuts of the PD portraits in `ajackson/assets/portraits/`,
+see its SOURCES.md); flags `us15_flag.png`, `gb1801_union_flag.png` from `ajackson/assets/flags/`.
+
+## Open issues
+- Script tag "Keane's banner" not used: Keane is never named in S05 (nothing on screen before it is spoken) and has no portrait; the British
+  side is the HALTED stamp + "Stung" label instead.
+- The method card uses S03's `letter` device; line 1 is typed fast before line 2 (the letter device types the whole quote).
+- The night is `night: 0.85` (a little lighter than 1.0) so the blocks stay readable at 720p.
+- Escaping blue blocks turn on the road bend at ~107.4 s (turn 100 deg/s, during their 0.6 s fade out at the dissolve).
+- The British ruler on the wide map counts 0 -> 9 (engine default); the S06 one uses the new `countFrom`.

diff --git a/ajackson/sequences/S06/NOTES.md b/ajackson/sequences/S06/NOTES.md
@@ -1,0 +1,29 @@
+# S06 The mud line (D 103.93 s)
+
+Build: `python3 vicksburg/tools/make_scene.py ajackson/sequences/S06`. Region: chalmette only (day). Sheet: `sheet.jpg`. Troop motion
+(`check_troops_motion.mjs ... 0 103.93 chalmette`): screen long-side angle <= 8 deg, turns <= 37 deg/s, 0 pops, 0 overlaps.
+
+## Shot list (scene time, what appears on which word)
+| t | shot |
+| --- | --- |
+| 0-16.6 | from above the British side looking back at the line; plate 24 DECEMBER 1814; Jackson's rampart rises out of the ground from 0.3 to 12.5 s (works[0] lifted by a custom emitter) while the diggers (regulars, Tennesseans) stand at it; "Rodriguez Canal" on its word (2.73), "Mississippi" on "river", "cypress swamp" on "cypress"; ruler 1 MILE river to swamp on "mile" (6.2, `countFrom: 1`); labels "Five feet high" (11.0) and "Twenty feet thick" (12.8); "the ditch" on "ditch" (15.5) |
+| 17-30 | closer along the line: Jackson banner on "Jackson" (17.8); the eight batteries appear one by one from "eight" (18.25, every 0.32 s) at Latour's order/spacing; gold "8" on "eight"; "Baratarians" over Battery 3 on its word (22.2) |
+| 30-46 | the defenders: Louisiana militia, two free-men-of-colour battalions, Kentucky riflemen, Choctaw walk in from the rear to their places on their words; small labels: regulars 31.4, Louisiana militia 33.1, free men of colour 35.9, Tennessee 36.9, Kentucky 37.6, Choctaw 39.35; "One of the strangest armies" on "strangest" (43.2) |
+| 46.3-52.6 | across the river: plate 27 DECEMBER on "twenty-seventh" (48.5); British guns on the levee fire 4 shots at the Carolina from "their guns" (49.7), she burns (steamer fire) from 50.9; label "Carolina" on her name |
+| 52.6-61 | plate 28 DECEMBER on "The next day"; two red columns (river road, swamp edge) advance + arrows on "advanced"; the line's guns fire from "American guns" (55.4), the Louisiana (ship, label on her name) fires from 57.0; riflemen volleys on the swamp leg; driven back on "drove" (59.5: escapes = about-face and walk off east) |
+| 61-76 | plate 1 JANUARY 1815 "New Year's Day · fog" on "New Year's"; Pakenham banner on "Pakenham" (62.4); fog veil (screen canvas, thicker toward the horizon, drifting banks); the British parapet + 3 two-gun batteries built "in the night" (65.4-67.6); "sugar barrels" on "barrels" (67.45); fog lifts from "fog" (69.3) to 71.4; British guns open on "opened" (70.45), 6 shots; American guns answer 8 shots 71.2-75.4; British batteries turn grey + smoulder from "shot" (74.5) |
+| 76.6-103.9 | up and wide over both banks: plate note "Pakenham's plan"; label "1 · West bank" + red arrow over the river to the west-bank battery on "Across" (82.0), barges crossing on "land", "west bank" on "west", arrow from the battery at Jackson's line on "turn" (85.1); "2 · River column" on "east" + arrow on "column" (89.8); "3 · Main column" on "main" + the widest arrow on "column" (92.7); bundle icon on "bundles" (98.1), ladder icon on "ladders" (99.8); red LADDERS stamp on "Remember" (101.0) |
+
+## Facts (FACT_NOTES_neworleans.md)
+Canal + rampart (33, 35: earth, 5 ft high, up to 20 ft thick, from the morning of the 24th); eight batteries in Latour's order, Battery 3 =
+Dominique You + Beluche, Baratarians (37, 17); defenders (16, 19); Carolina burnt 27 Dec, Louisiana fired on 28 Dec (18, 39); 1 Jan fog, sugar
+hogsheads, ~3 hours, British guns silenced (40); the plan (41: Thornton west bank -> Patterson's battery; Keane along the river; Gibbs by the
+swamp; 44th with fascines and ladders).
+
+## Images
+`jackson.png`, `pakenham.png` (ajackson/assets/generals), flags from ajackson/assets/flags. Bundle and ladder icons are inline SVG.
+
+## Open issues
+- The 1 Jan British parapet, the advanced redoubt and the west-bank works are also painted in the baked ground texture (flat marks visible
+  before their 3D parapets rise); a re-bake without them would be cleaner.
+- The plan is shown with the real units' positions (red blocks at the start lines); the West India regiments / reserve are not shown.

diff --git a/ajackson/sequences/S07/NOTES.md b/ajackson/sequences/S07/NOTES.md
@@ -1,4 +1,12 @@
-# S07 MOVE 3: 8 JANUARY 1815 (D 152.86 s) — sheet.jpg (23 stills)
+# S07 MOVE 3: 8 JANUARY 1815 (D 152.86 s) — sheet.jpg (24 stills)
+
+**Fix round 1:**
+- 40-107.5 is now cut into 5 closer, lower oblique shots (dissolves at 39.9, 55.9, 69.9, 83.3, 96.7), at dist 10-13 and tilt 60-64: (1) low along the wall for the batteries and rank fire; (2) down the front for the main column at the ditch and NO LADDERS; (3) from behind the British, following Pakenham; (4) from the side for the 93rd under grape; (5) the redoubt by the river. The wide high view remains for the rocket/advance and for HALF AN HOUR.
+- The main column moved to s 3.9 and the 44th to s 2.0, out of the wood edge.
+- Fog: blobs replaced by an even veil plus long blurred bands lying along the river, densest by the river, lifting 32.0-34.7.
+- The ~12 s arrow is now the boats' route across the river, with the west bank in frame.
+- Result: a big centred dark card (BRITISH 2,037 / AMERICAN 71 / behind the wall: 6 killed / sources), each figure on its words.
+
 One region: chalmette. troopScale 1.15. The opening state is S06's ending: the same `onS` / `onL` helpers, the 8 batteries at the same positions, the defenders (n 1) at S06's POS, the camera on S06's last key, now before dawn (night 0.5 -> 0 by the fog lift).
 
 | t | shot | on screen (on its word) |
@@ -14,7 +22,7 @@ One region: chalmette. troopScale 1.15. The opening state is S06's ending: the s
 | 96.8-107 | the river end | the river column storms the advanced redoubt 97.2-99.5 (the US company turns grey), shot down 102.7-104 (guns + volleys), driven out 105-107.4 (redoubt back to blue, column gone) |
 | 107.8-114.6 | the field | all British lines back; HALF AN HOUR stamp 110.3 |
 | 114.6-127 | dissolve: the west bank, seen from over the river | Morgan's two lines fire, break on "broke through" 118.4 (red arrow), red halts 122, ordered back 126; "Morgan's line" label |
-| 127-143.4 | dissolve: still field, dimmed | ledger "8 January 1815 / Lambert's and Butler's returns": British 2,037 (killed, wounded or captured) 131.4 + "three generals among them" 132.8; American 71 casualties (killed, wounded or missing · both banks) 137.8; Behind the wall: 6 killed 142.6 |
+| 127-143.4 | dissolve: still field, dimmed | (now a centred card, see above; was the ledger) "8 January 1815 / Lambert's and Butler's returns": British 2,037 (killed, wounded or captured) 131.4 + "three generals among them" 132.8; American 71 casualties (killed, wounded or missing · both banks) 137.8; Behind the wall: 6 killed 142.6 |
 | 143.6-end | method letter (S03/S05 design) | lines 1-2 typed fast, "3. Make them come to you" types on "make" 150.0 |
 
 Facts: FACT_NOTES_neworleans.md 43-54 (rocket, fog, the 44th's ladders, Gibbs' column, Pakenham, the 93rd, Rennie at the redoubt, Lambert, the west bank, 2,037 / 71 = both banks, 6 killed on the east bank).

diff --git a/ajackson/sequences/S08/NOTES.md b/ajackson/sequences/S08/NOTES.md
@@ -1,5 +1,5 @@
-# S08 ENDING (D 65.61 s) — sheet.jpg (15 stills)
-Gulf only. end: fadeAt 64.4, dur 1.2 (fades to black at the very end).
+# S08 ENDING (D 79.11 s) — sheet.jpg (16 stills)
+Gulf only. Fix round 1: D 79.11; final cards leave 60.4, subscribe out by ~61.4; 61.5-79.1 = the living map alone (clouds, water, slow drift); fade over the last 1.5 s. Removal shading + arrows brighter warm tan (muted, no red), arrows 0.75 wide, Cherokee label 22 px.
 
 | t | on screen |
 | --- | --- |
